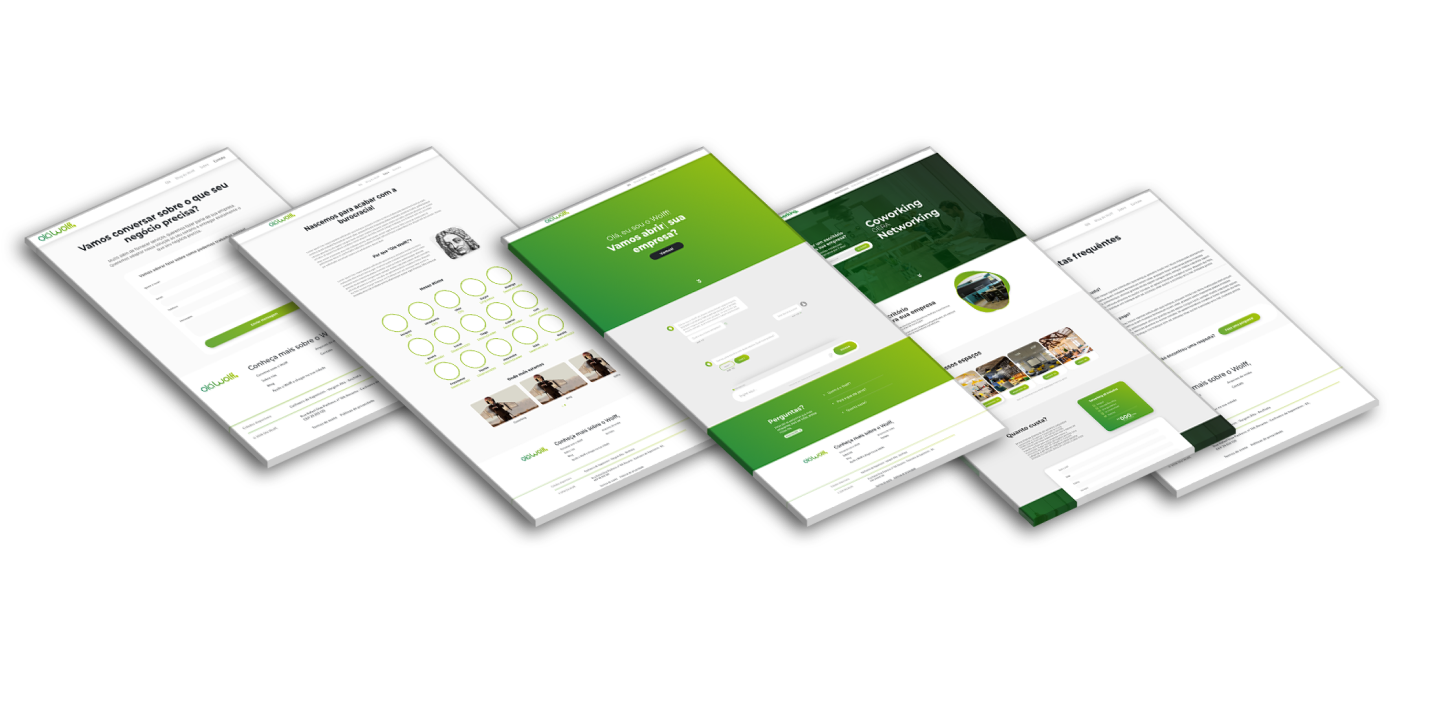
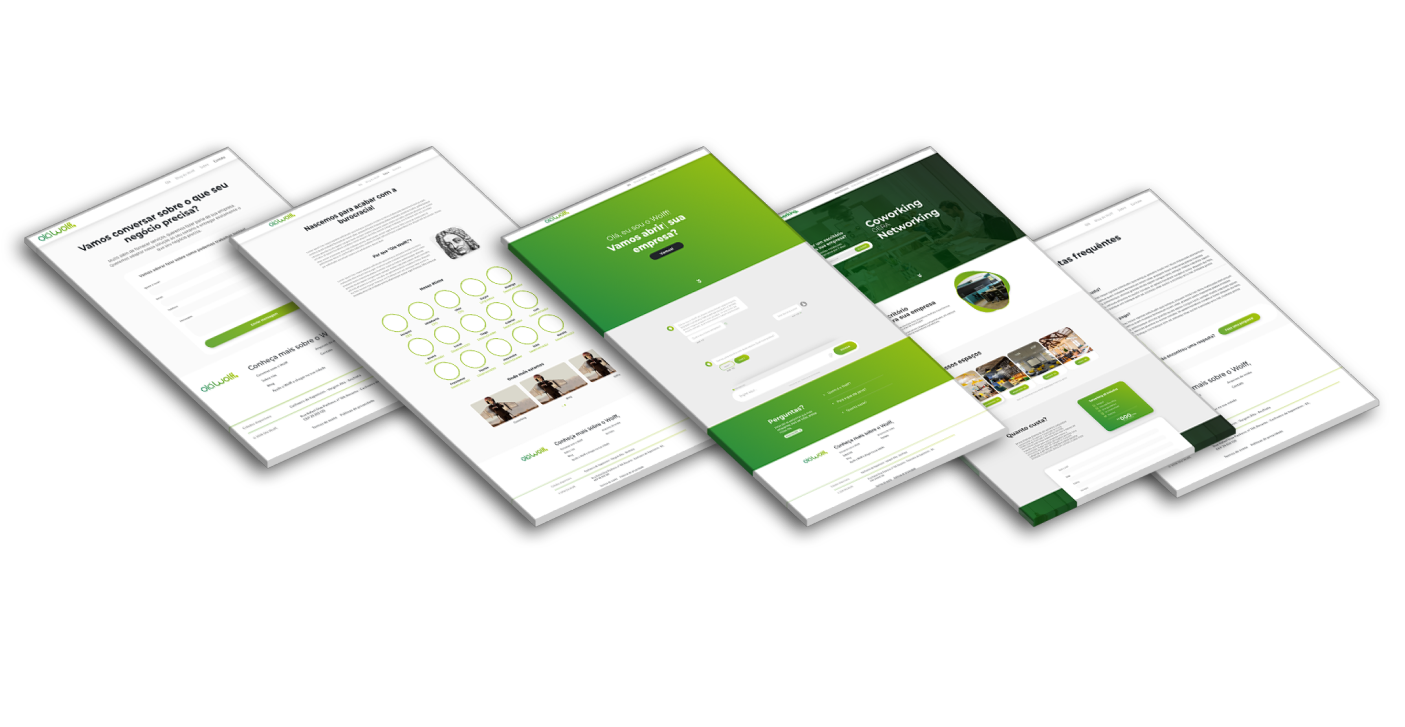
Acertado tamanho e padding da imagem das páginas do wolff #15

diff --git a/src/pages/olawolff.tsx b/src/pages/olawolff.tsx
@@ -225,7 +225,7 @@ export default function OlaWolff() {
 				</section>
 			</div>
 
-			<div className='container'>
+			<div className='container text-center'>
 				<img className='img-helper' src='/img/projects/olawolff/pages.png' />
 			</div>
 
